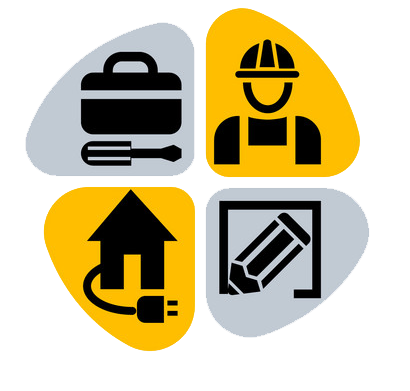
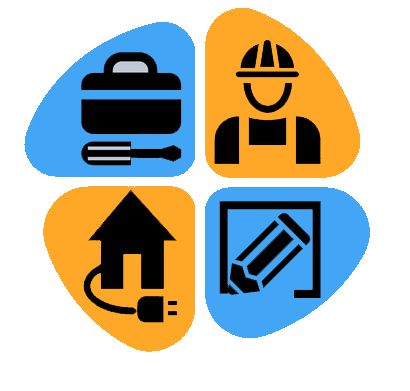
KarApp

diff --git a/lib/GUI/Home.dart b/lib/GUI/Home.dart
@@ -73,7 +73,7 @@ class HomeState extends State<Home>{
                       child: Material(
                         elevation: 5.0,
                         borderRadius: BorderRadius.circular(30.0),
-                        color: Colors.orange[600],
+                        color: Colors.orange[400],
                         child: MaterialButton(
                           minWidth: MediaQuery.of(context).size.width,
                           padding: EdgeInsets.fromLTRB(20.0, 15.0, 20.0, 15.0),
